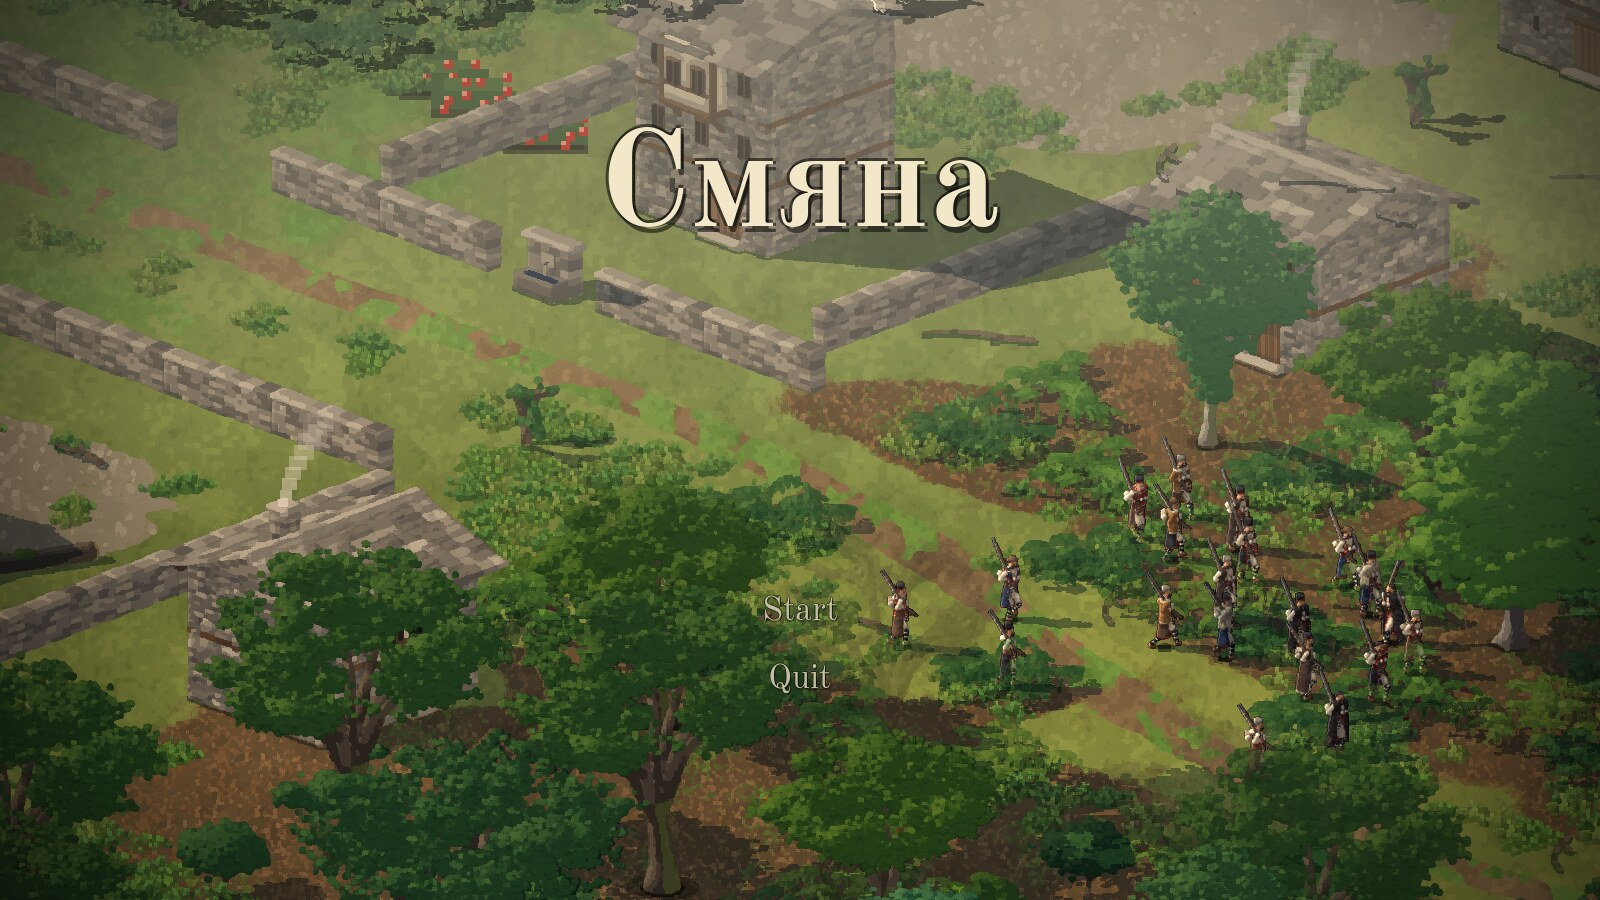
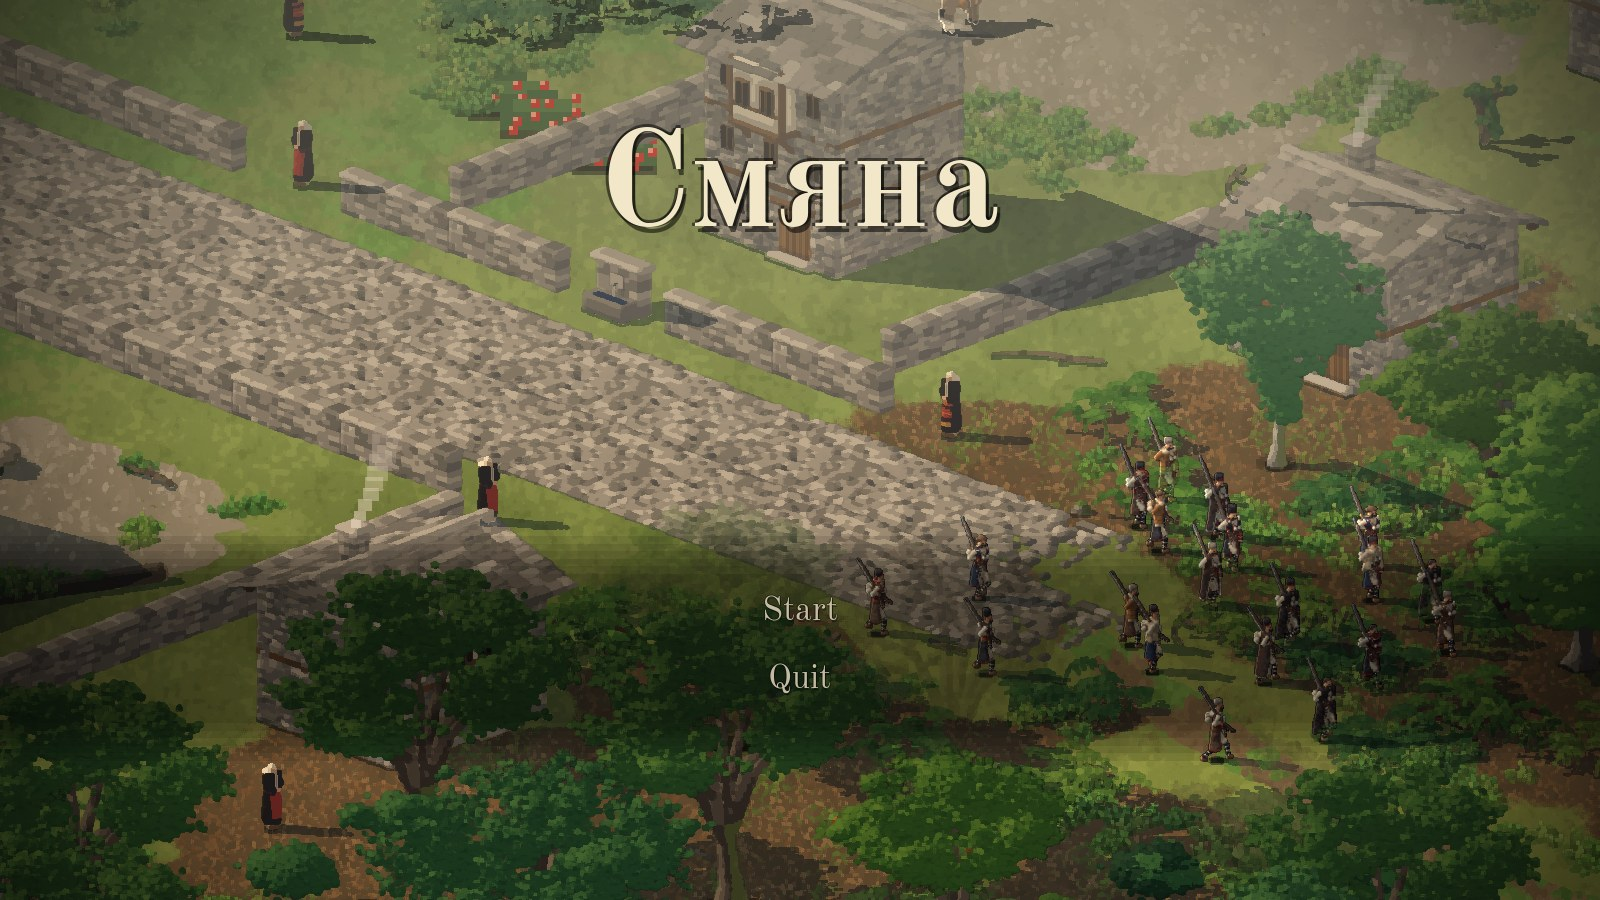
The menu's words on a band of shade (D-206); the title picture with the village as it is now

diff --git a/archive/decisions.md b/archive/decisions.md
@@ -1518,3 +1518,9 @@ The eleventh first-time play: "Arrival is abrupt. Control is taken with no word.
 would help." Coming home, when the band is within thirty tiles of the village's end of the map, one man says once:
 "Smoke over the trees. Those are our own chimneys." (`home_seen`, data/survival.json). The words are Claude's and are
 Dominic's to rewrite.
+
+## D-206 (2026-11-24, Claude): the menu's words on a band of shade
+
+The eleventh first-time play: "'Start' and 'Quit' are small, pale, and drawn over the men; 'Start' sits on top of a
+man." The menu's words now stand on the same soft band of shade as the morning after's
+(`archive/images/2026-11-24/22-the-title-over-the-village.jpg`, also the README's title picture).
